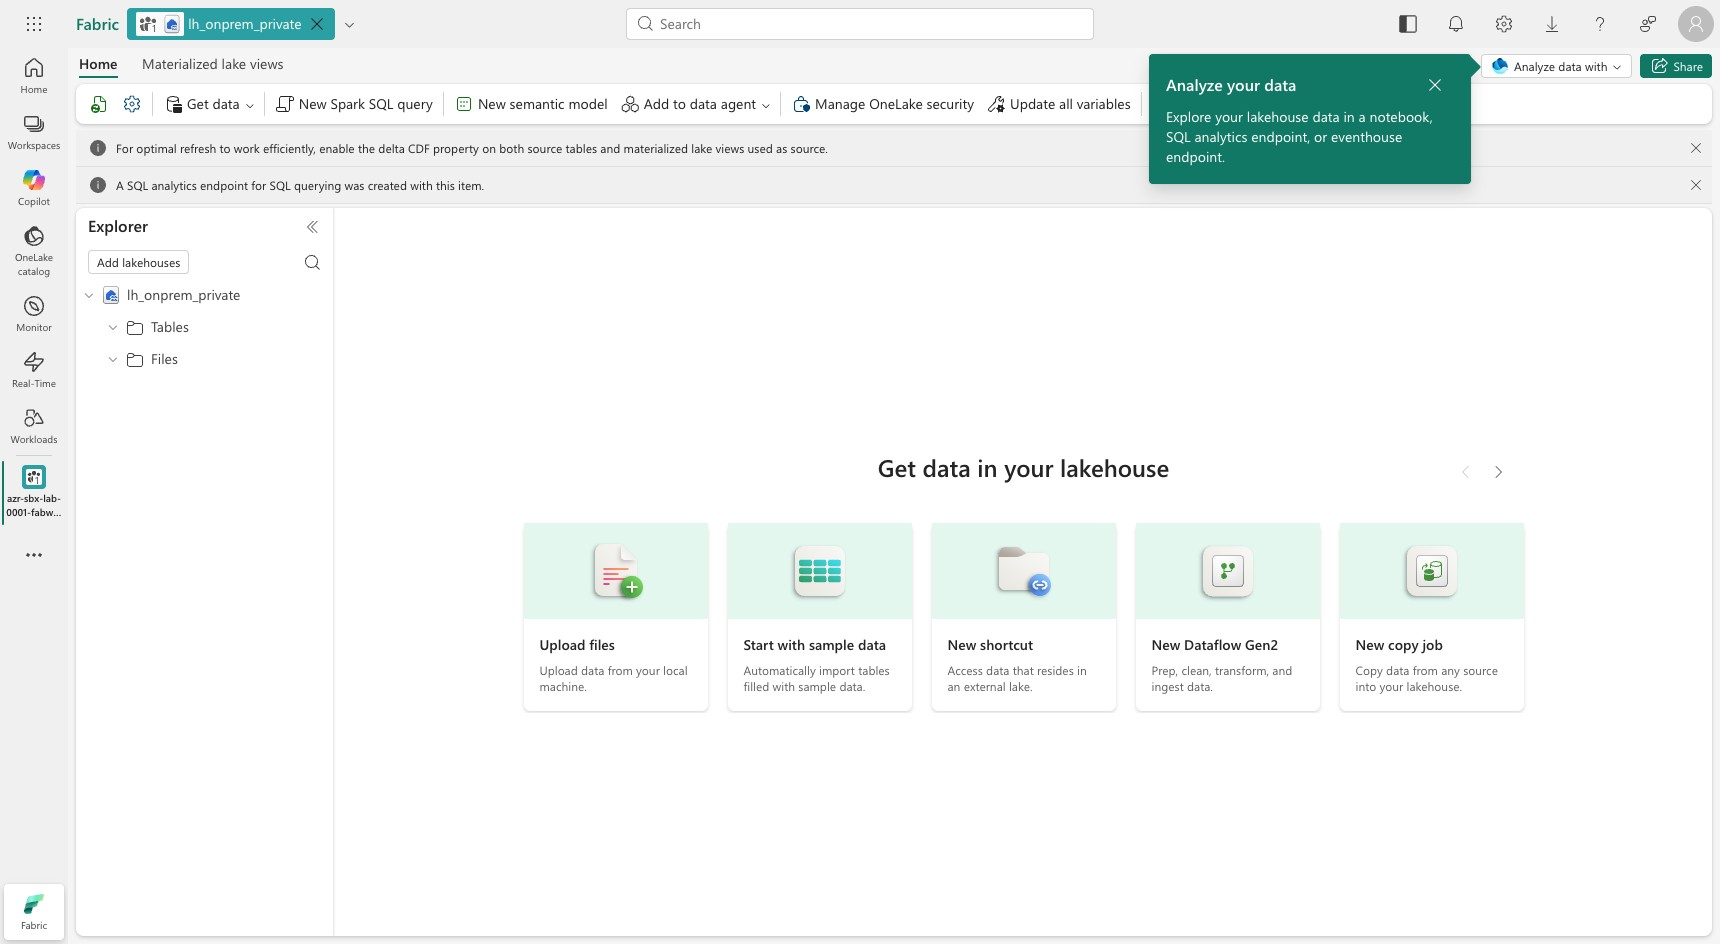
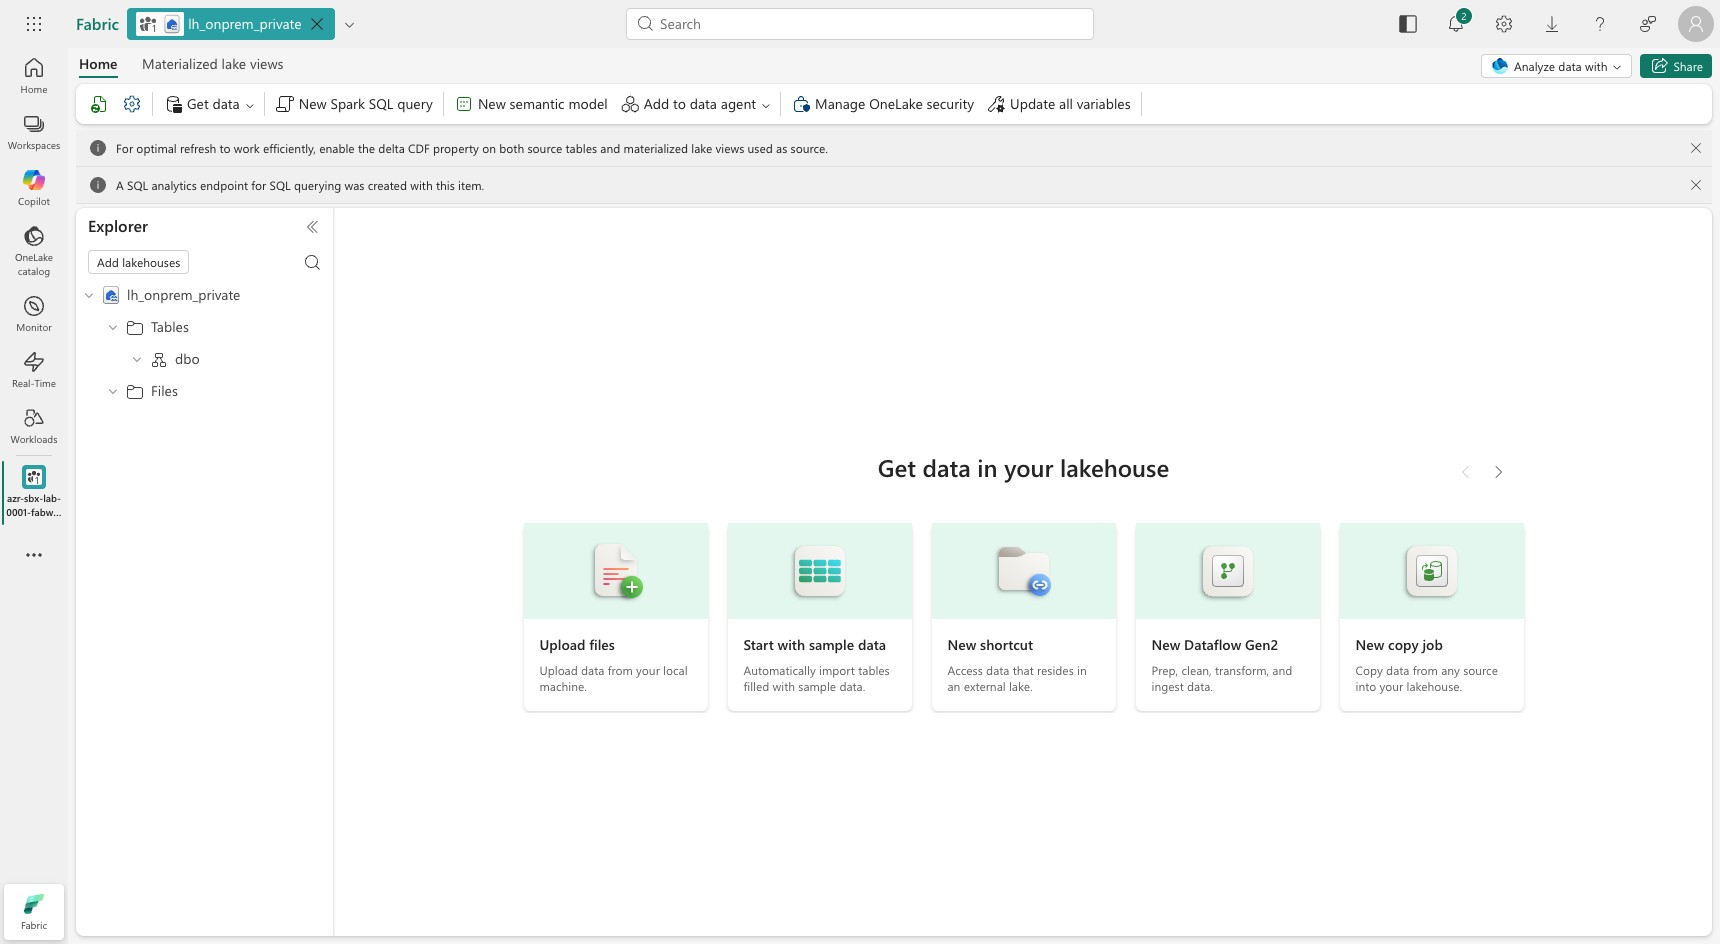
Phase 6 redo through firewall: embed screenshots 12-15 + FW transit evidence
- Rebuilt the private lakehouse + SQL ingest via Copy job with all on-prem
  egress forced through the Azure hub firewall (UDR).
- SQL connection created unencrypted (on-prem SQL has no trusted TLS cert);
  documented the encryption gotcha in the runbook.
- Copy job succeeded: 3 rows read/written; SalesOrders lands as a clean
  queryable Delta table (no Unidentified folder).
- Verified via firewall logs that both control-plane (servicebus,
  clouddatahub) and data-plane (private endpoint 10.2.0.7:443, 14 conns during
  run window) traffic traversed the hub firewall; noise FQDNs denied.
- Embedded screenshots 12-15 into DEPLOYMENT-GUIDE Phase 6, replacing stale
  'pending' text.

Changed region(s): [[0.6471, 0.0, 0.8628, 0.215], [0.0616, 0.3686, 0.1233, 0.3994]]

diff --git a/DEPLOYMENT-GUIDE.md b/DEPLOYMENT-GUIDE.md
@@ -1350,32 +1350,66 @@ members must be healthy, and screenshots 09-11 must be approved.
   terminals. Customer production uses its approved secret manager and
   least-privilege identity; it does not use Terraform state as a credential
   delivery mechanism.
-7. Under gateway, select the OPDG cluster registered in Step 10. Select **Test
-  connection**. Save only after the test succeeds.
-8. Return to Workspace A and select **New item** > **Data pipeline**. Enter the
-  approved pipeline name; the reference lab uses
-  `pl_sql_to_onelake_private`.
-9. Add a **Copy data** activity. Select the saved SQL connection as source and
-  the approved source table (`dbo.SalesOrders` in the lab).
-10. Select the Workspace A lakehouse as destination and create/map the target
-   Delta table. Review column names and data types before publishing.
-11. **Validate** the pipeline, then **Save/Publish** it.
-12. Select **Run**. Open the run output and verify status `Succeeded`, source
-   and destination row counts match, and no rows were skipped.
-13. Open the Lakehouse table preview or SQL analytics endpoint and verify the
-   expected rows. The lab expects exactly three rows.
+7. Under gateway, select the OPDG cluster registered in Step 10.
+   - **Encryption note:** if the source SQL Server has no TLS certificate that
+     the gateway trusts (common for lab/on-prem SQL), the wizard fails with
+     *"We were unable to connect to the data source using an encrypted
+     connection."* Uncheck **Use encrypted connection** and re-test. The
+     reference lab connection is unencrypted for this reason; a customer with a
+     trusted certificate should leave encryption enabled.
+   - Select **Test connection**. Save only after the test succeeds.
+8. In the Workspace A lakehouse editor, select **New copy job** (Copy job is the
+   simplest managed-Delta ingestion path and lands a clean queryable table).
+   Choose **SQL Server database** as the source and select the connection saved
+   in Step 6-7 (shown as `[On-premises] <gateway name>`).
+9. On **Choose data**, select the approved source table (`dbo.SalesOrders` in the
+   lab). The gateway enumerates the table through the firewall-routed path.
+10. On **Settings**, keep **Full copy** and a destination root of **Tables**
+   (managed Delta). On **Map to destination**, confirm the target table
+   (`dbo.SalesOrders`) and review column names/types.
+11. Select **Save + Run** (or **Save**, then **Run** from the toolbar).
+12. Open the **Results** tab and verify status `Succeeded`, `Rows read` and
+   `Rows written` match, and jobs completed `1/1`. The lab expects exactly three
+   rows read and written.
+13. In the Lakehouse **Explorer**, refresh **Tables**, expand the `dbo` schema,
+   and open the target table. Verify it renders as a normal Delta table (not
+   **Unidentified**) and previews the expected rows. The lab expects exactly
+   three rows.
 
-Required customer screenshots (pending):
+**Screenshots (captured, firewall-routed run 2026-07-20):**
 
-- `12-private-lakehouse-created.jpeg`
-- `13-opdg-sql-connection-online.jpeg`
-- `14-copy-pipeline-succeeded.jpeg`
-- `15-lakehouse-salesorders-data.jpeg`
+Private lakehouse created in Workspace A:
 
-> **Screenshot status:** no screenshots 12-15 exist yet. Capture the final
-> applied/succeeded screens with credentials and unrelated tenant data hidden.
+![Private lakehouse created](workloads/fabric/images/12-private-lakehouse-created.jpeg)
 
-Record the lakehouse, SQL analytics endpoint, pipeline, connection IDs, run ID,
+SQL Server connection online through the on-premises data gateway (unencrypted,
+Basic auth, `[On-premises] azlab-gateway`):
+
+![SQL connection through gateway](workloads/fabric/images/13-sql-connection-gateway.jpeg)
+
+Copy job succeeded — 3 rows read, 3 rows written, `dbo.SalesOrders → dbo.SalesOrders`:
+
+![Copy job succeeded](workloads/fabric/images/14-copyjob-succeeded-3rows.jpeg)
+
+Clean queryable Delta table in the lakehouse (all 3 rows, 4 columns):
+
+![Lakehouse SalesOrders Delta table](workloads/fabric/images/15-lakehouse-salesorders-delta.jpeg)
+
+**Firewall transit evidence (this run):** with all on-prem egress forced through
+the Azure hub firewall (UDR), the copy-job run at 09:33-09:34 (GMT+3) was
+observed in the firewall logs, proving both control- and data-plane traffic
+traversed the firewall:
+
+- **Application rule (Allow):** gateway → `*.servicebus.windows.net`
+  (control channel) and `wu3.frontend.clouddatahub.net` (Fabric copy data plane).
+- **Network rule (Allow):** gateway `172.16.x` → Fabric private endpoint
+  `10.2.0.7:443` — 14 TCP connections during the run window (06:33:52-06:34:00
+  UTC), matching the data-plane write to OneLake.
+- Windows/Defender/telemetry FQDNs were **Denied** by the catch-all, confirming
+  least-privilege egress. See `docs/fabric-opdg-firewall-rules.md` for the full
+  rule set and validated FQDN list.
+
+Record the lakehouse, SQL analytics endpoint, copy job, connection IDs, run ID,
 start/end time, and row counts.
 
 **Rollback:** disable the schedule/trigger, delete only the failed pipeline run
